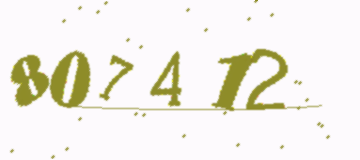
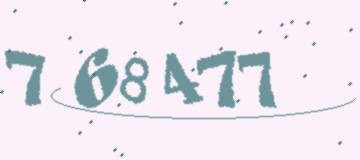
kij

diff --git a/src/bot.py b/src/bot.py
@@ -3,6 +3,7 @@ import logging
 import sys
 import datetime
 from os import getenv
+from io import BytesIO
 import random
 from aiogram import Bot, Dispatcher, Router, types
 from aiogram.enums import ParseMode
@@ -11,6 +12,7 @@ from enum import Enum
 from aiogram.types import (
     Message, 
     FSInputFile,
+    BufferedInputFile,
     InlineKeyboardMarkup,
     InlineKeyboardButton,
     CallbackQuery
@@ -46,6 +48,16 @@ dp = Dispatcher()
 def generate_captcha():
     return random.randint(100000, 999999)
 
+def write_bytesio_to_file(filename: str, bytesio: BytesIO):
+    """
+    Write the contents of the given BytesIO to a file.
+    Creates the file or overwrites the file if it does
+    not exist yet. 
+    """
+    with open(filename, "wb") as outfile:
+        # Copy the BytesIO stream to the output file
+        outfile.write(bytesio.getbuffer().tobytes())
+
 # Store CAPTCHA data (chat_id, captcha_string) in a dictionary
 
 def check_verification(id: int) -> UserType:
@@ -68,11 +80,13 @@ async def command_start_handler(message: Message) -> None:
     # Bot instance: `bot.send_message(chat_id=message.chat.id, ...)`
 
     try:
+        print("get fonts")
         custom_fonts = ['fonts/alex.ttf', 'fonts/bodon.ttf']
+        print("fonts gotten")
         captcha = ImageCaptcha(fonts=custom_fonts, width=360, height=160)
         # Generate a CAPTCHA
         data = generate_captcha()
-
+        print(data)
         capt = db.Captcha.objects(user_id=message.chat.id)
         if len(capt) < 1:
             capt = db.Captcha(user_id=message.chat.id, data=data, created_at=datetime.datetime.now())
@@ -81,13 +95,17 @@ async def command_start_handler(message: Message) -> None:
             capt.update(data=data)
 
         data = str(data)
+        print("write image to container")
+        captcha_image = captcha.generate(data)
+        # captcha.write(data, 'out.png')
 
-        # captcha_image = captcha.generate(data)
-        captcha.write(data, 'out.png')
-
+        # write_bytesio_to_file("out.png", captcha_image)
+        print("image written")
         # print(captcha_image)
 
-        image_file = FSInputFile('out.png')
+        image_file = BufferedInputFile(captcha_image.getbuffer().tobytes(), "out.png")
+
+        print("image gotten")
         
         await message.answer_photo(photo=image_file, caption="Prove You're Human (Type in chat below 👇)")
     except Exception as e:

diff --git a/README.Docker.md b/README.Docker.md
@@ -1,0 +1,22 @@
+### Building and running your application
+
+When you're ready, start your application by running:
+`docker compose up --build`.
+
+Your application will be available at http://localhost:5000.
+
+### Deploying your application to the cloud
+
+First, build your image, e.g.: `docker build -t myapp .`.
+If your cloud uses a different CPU architecture than your development
+machine (e.g., you are on a Mac M1 and your cloud provider is amd64),
+you'll want to build the image for that platform, e.g.:
+`docker build --platform=linux/amd64 -t myapp .`.
+
+Then, push it to your registry, e.g. `docker push myregistry.com/myapp`.
+
+Consult Docker's [getting started](https://docs.docker.com/go/get-started-sharing/)
+docs for more detail on building and pushing.
+
+### References
+* [Docker's Python guide](https://docs.docker.com/language/python/)
